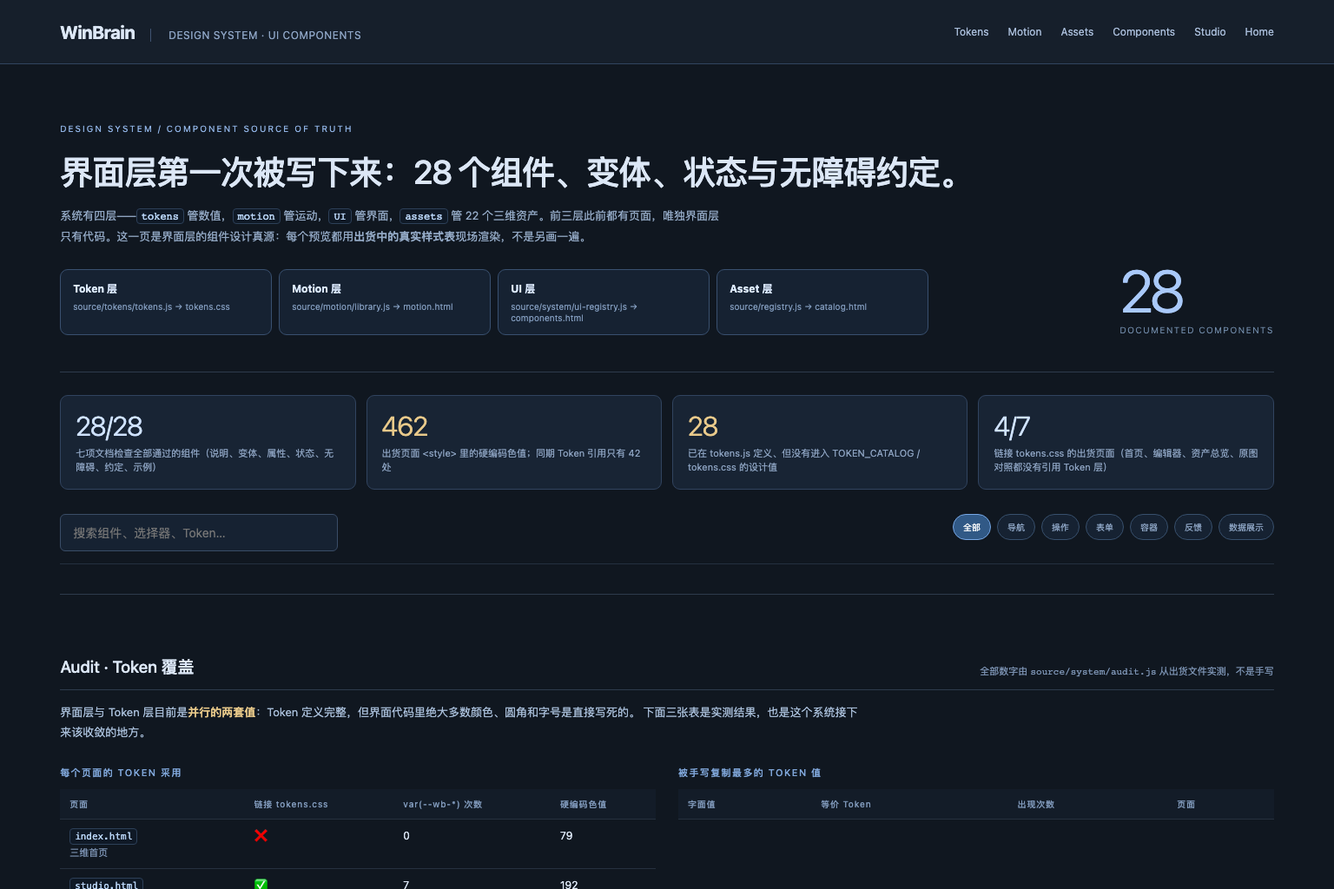
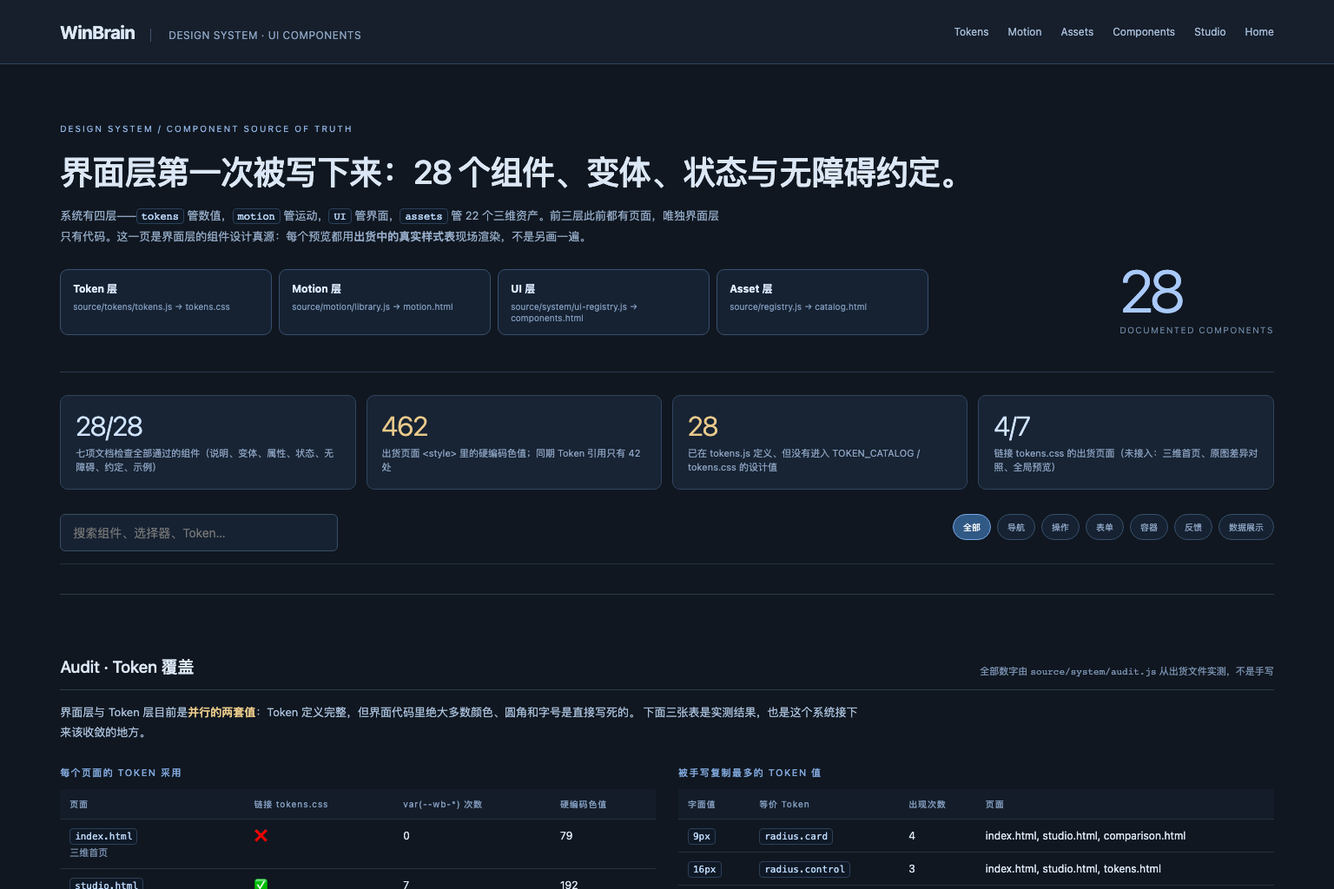
Answer the three review findings, and make the ratchet tell the truth
All three Codex findings were valid. The first one mattered most.

1. The ratchet overclaimed. `duplicatedLiterals` is populated only from the hex
   scan, so the label "hand-copied token literals" promised dimension coverage
   the audit did not have — and it reported zero while 11 border-radius literals
   equal to a radius token were sitting in the tree. audit.js now indexes the
   Radius group and records radius duplicates alongside the colours.

   The dead `len:` block it replaces was worse than unused: it resolved a value
   to a token by value alone, so `16px` would have been credited to `space.16` —
   a spacing decision owning a border-radius literal, the same mistake the
   namespace rule exists to prevent. Restricting the index to the Radius group
   fixes that. Deliberately not extended to every dimension: `padding: 16px`
   equals `space.16` without copying a spacing decision, and flagging those
   would drown the real ones.

   The 11 are not converted, and the reason is measured rather than assumed.
   They all reach the audit through source/shell.html, and index.html refuses
   the tokens.css <link>: its CSP is `style-src 'unsafe-inline'` with no
   `'self'`, so Chromium blocks the stylesheet and `var(--wb-color-accent)`
   resolves to an inherited `rgb(244, 245, 248)` instead of `#67ccff`. Seen in a
   browser, not inferred from the spec. Widening that CSP is a decision about
   the homepage's security posture, so the ratchet carries the debt at a pinned
[…]

diff --git a/components.html b/components.html
@@ -4390,7 +4390,7 @@ a:focus-visible,button:focus-visible,input:focus-visible{outline:2px solid var(-
   <div class="stat"><b>28/28</b><span>七项文档检查全部通过的组件（说明、变体、属性、状态、无障碍、约定、示例）</span></div>
   <div class="stat warn"><b>462</b><span>出货页面 &lt;style&gt; 里的硬编码色值；同期 Token 引用只有 42 处</span></div>
   <div class="stat warn"><b>28</b><span>已在 tokens.js 定义、但没有进入 TOKEN_CATALOG / tokens.css 的设计值</span></div>
-  <div class="stat"><b>4/7</b><span>链接 tokens.css 的出货页面（首页、编辑器、资产总览、原图对照都没有引用 Token 层）</span></div>
+  <div class="stat"><b>4/7</b><span>链接 tokens.css 的出货页面（未接入：三维首页、原图差异对照、全局预览）</span></div>
 </section>
 
 <section class="tools">
@@ -4409,7 +4409,7 @@ a:focus-visible,button:focus-visible,input:focus-visible{outline:2px solid var(-
   </p>
   <div class="ds-body" style="grid-template-columns:repeat(2,minmax(0,1fr))">
     <section class="ds-block"><h4>每个页面的 Token 采用</h4><table><thead><tr><th>页面</th><th>链接 tokens.css</th><th>var(--wb-*) 次数</th><th>硬编码色值</th></tr></thead><tbody><tr><td><code>index.html</code><br><span style="color:#7c93b3;font-size:11px">三维首页</span></td><td>❌</td><td>0</td><td>79</td></tr><tr><td><code>studio.html</code><br><span style="color:#7c93b3;font-size:11px">组件编辑器</span></td><td>✅</td><td>7</td><td>192</td></tr><tr><td><code>catalog.html</code><br><span style="color:#7c93b3;font-size:11px">资产总览</span></td><td>✅</td><td>7</td><td>30</td></tr><tr><td><code>tokens.html</code><br><span style="color:#7c93b3;font-size:11px">Token 审计</span></td><td>✅</td><td>11</td><td>47</td></tr><tr><td><code>motion.html</code><br><span style="color:#7c93b3;font-size:11px">Motion 库</span></td><td>✅</td><td>17</td><td>50</td></tr><tr><td><code>comparison.html</code><br><span style="color:#7c93b3;font-size:11px">原图差异对照</span></td><td>❌</td><td>0</td><td>29</td></tr><tr><td><code>global.html</code><br><span style="color:#7c93b3;font-size:11px">全局预览</span></td><td>❌</td><td>0</td><td>35</td></tr><tr><td><code>components.html</code><br><span style="color:#7c93b3;font-size:11px">组件预览（本页）</span></td><td>✅</td><td>16</td><td>82</td></tr></tbody></table></section>
-    <section class="ds-block"><h4>被手写复制最多的 Token 值</h4><table><thead><tr><th>字面值</th><th>等价 Token</th><th>出现次数</th><th>页面</th></tr></thead><tbody></tbody></table></section>
+    <section class="ds-block"><h4>被手写复制最多的 Token 值</h4><table><thead><tr><th>字面值</th><th>等价 Token</th><th>出现次数</th><th>页面</th></tr></thead><tbody><tr><td><code>9px</code></td><td><code>radius.card</code></td><td>4</td><td>index.html, studio.html, comparison.html</td></tr><tr><td><code>16px</code></td><td><code>radius.control</code></td><td>3</td><td>index.html, studio.html, tokens.html</td></tr><tr><td><code>20px</code></td><td><code>radius.dialog</code></td><td>2</td><td>index.html, studio.html</td></tr><tr><td><code>19px</code></td><td><code>radius.panel</code></td><td>2</td><td>index.html, studio.html</td></tr></tbody></table></section>
   </div>
   <section class="ds-block" style="margin-top:26px"><h4>圆角尺度：实际用了 20 种值，Token 只定义了 3 种</h4>
     <p style="font-size:12px;color:#8ba1bf">橙色是没有任何 Token 对应的孤值。<code>16px</code> 其实就是 tokens.js 里的 <code>radius.control</code>，只是没有导出。</p>
@@ -4540,19 +4540,19 @@ a:focus-visible,button:focus-visible,input:focus-visible{outline:2px solid var(-
 &lt;/button&gt;</pre></section>
   </div>
 </article>
-<article class="ds-component" id="c-control-button" data-search="control-button control button actions 首页视角工具里的小胶囊按钮，16px 圆角，带 aria-pressed 开关态。 .controls .controls p .control-buttons .control-buttons button .control-buttons button:hover .control-buttons button[aria-pressed=&quot;true&quot;] radius.control（未导出） #a7c3ea2c #14213460 #335da081 #a5c6ff80 #b5c9e1 16px" data-group="actions">
+<article class="ds-component" id="c-control-button" data-search="control-button control button actions 首页视角工具里的小胶囊按钮，16px 圆角，带 aria-pressed 开关态。 .controls .controls p .control-buttons .control-buttons button .control-buttons button:hover .control-buttons button[aria-pressed=&quot;true&quot;] radius.control #a7c3ea2c #14213460 #335da081 #a5c6ff80 #b5c9e1 16px" data-group="actions">
   <div class="ds-head">
     <span class="ds-kind">操作 / UI COMPONENT</span>
     <h3>Control Button<code>control-button</code></h3>
     <p class="ds-summary">首页视角工具里的小胶囊按钮，16px 圆角，带 aria-pressed 开关态。</p>
-    <div class="ds-meta"><span>source/shell.html</span><span>radius.control（未导出）</span><span class="gap">#a7c3ea2c</span><span class="gap">#14213460</span><span class="gap">#335da081</span><span class="gap">#a5c6ff80</span><span class="gap">#b5c9e1</span><span class="gap">16px</span></div>
+    <div class="ds-meta"><span>source/shell.html</span><span>radius.control</span><span class="gap">#a7c3ea2c</span><span class="gap">#14213460</span><span class="gap">#335da081</span><span class="gap">#a5c6ff80</span><span class="gap">#b5c9e1</span><span class="gap">16px</span></div>
   </div>
   <div class="ds-frame ds-frame--scene"><div class="ds-stage ds-stage--home ds-pv-control-button"><div class="viewport"><main class="scene" aria-label="Control Button 预览"><div class="controls is-open" style="opacity:1;visibility:visible;transform:none"><p>拖动旋转 · 滚轮缩放<br>点击物体，探索每一层</p><div class="control-buttons"><button>初始视角</button><button aria-pressed="false">自动旋转</button><button aria-pressed="true">模型线框</button><button aria-pressed="false">暂停光流</button></div></div></main></div></div></div>
   <p class="ds-stage-note">舞台：<b>首页场景</b> · 在 1536 × 1024 的 .scene 内按原坐标绝对定位渲染，预览按比例缩放。</p>
   <div class="ds-body">
     <section class="ds-block"><h4>Description</h4><p>一组可切换的视图开关（自动旋转、模型线框、暂停光流）。这是全站唯一把“按下”状态写进 aria-pressed 的控件，因此样式规则也直接挂在属性选择器上——状态和语义是同一条规则，不会漂移。</p></section>
     <section class="ds-block"><h4>Variants</h4><table><thead><tr><th>Variant</th><th>Use When</th><th>Selector</th></tr></thead><tbody><tr><td>Toggle</td><td>有开/关两态的视图开关，带 aria-pressed</td><td><code>.control-buttons button[aria-pressed]</code></td></tr><tr><td>Action</td><td>一次性动作（初始视角、进入编辑器），无 aria-pressed</td><td><code>.control-buttons button</code></td></tr></tbody></table></section>
-    <section class="ds-block"><h4>Props / Properties</h4><table><thead><tr><th>Property</th><th>Type</th><th>Default</th><th>Description</th></tr></thead><tbody><tr><td><code>padding</code></td><td>length</td><td><code>7px 11px</code></td><td>小尺寸胶囊。</td></tr><tr><td><code>border-radius</code></td><td>length</td><td><code>16px</code></td><td>对应 tokens.js 里的 radius.control，但该 Token 未导出到 tokens.css。</td></tr><tr><td><code>border</code></td><td>border</td><td><code>1px solid #a7c3ea2c</code></td><td>约 17% 透明度的冷色描边。</td></tr><tr><td><code>background</code></td><td>color</td><td><code>#14213460</code></td><td>约 38% 透明度的深蓝，浮在三维场景上方。</td></tr><tr><td><code>aria-pressed</code></td><td>boolean</td><td><code>false</code></td><td>开/关状态，驱动选中样式。同时存在一个 hover 规则，两条规则共用同一样式块。</td></tr></tbody></table></section>
+    <section class="ds-block"><h4>Props / Properties</h4><table><thead><tr><th>Property</th><th>Type</th><th>Default</th><th>Description</th></tr></thead><tbody><tr><td><code>padding</code></td><td>length</td><td><code>7px 11px</code></td><td>小尺寸胶囊。</td></tr><tr><td><code>border-radius</code></td><td>length</td><td><code>16px</code></td><td>对应 tokens.js 里的 radius.control，已导出为 --wb-radius-control。</td></tr><tr><td><code>border</code></td><td>border</td><td><code>1px solid #a7c3ea2c</code></td><td>约 17% 透明度的冷色描边。</td></tr><tr><td><code>background</code></td><td>color</td><td><code>#14213460</code></td><td>约 38% 透明度的深蓝，浮在三维场景上方。</td></tr><tr><td><code>aria-pressed</code></td><td>boolean</td><td><code>false</code></td><td>开/关状态，驱动选中样式。同时存在一个 hover 规则，两条规则共用同一样式块。</td></tr></tbody></table></section>
     <section class="ds-block"><h4>States</h4><table><thead><tr><th>State</th><th>Visual</th><th>Behavior</th></tr></thead><tbody><tr><td>Default</td><td>半透明深蓝底 + 17% 冷色描边，文字 11px #b5c9e1</td><td>点击切换</td></tr><tr><td>Hover</td><td>与按下态相同：#335da081 底、#fff 字、#a5c6ff80 边</td><td>过渡 0.2s</td></tr><tr><td>Pressed (aria-pressed=true)</td><td>同 Hover</td><td>保持到再次点击</td></tr><tr><td>Hidden (父级 .controls)</td><td>父级默认 opacity:0 / visibility:hidden / translateY(6px)</td><td>Explore 展开或父级 :focus-within 时恢复</td></tr></tbody></table></section>
     <section class="ds-block"><h4>Accessibility</h4><div class="ds-a11y">
       <div><b>ROLE</b><p>button，切换型带 aria-pressed</p></div>
@@ -5181,7 +5181,7 @@ a:focus-visible,button:focus-visible,input:focus-visible{outline:2px solid var(-
   <div class="ds-body">
     <section class="ds-block"><h4>Description</h4><p>一组互斥的分类筛选钮。和首页 control-button 是同一形态（16px 圆角胶囊）但不同语义：这里用 .active class 表达唯一选中，而首页用 aria-pressed。两处圆角值相同，说明 16px 事实上是这个系统的“胶囊档”。</p></section>
     <section class="ds-block"><h4>Variants</h4><table><thead><tr><th>Variant</th><th>Use When</th><th>Selector</th></tr></thead><tbody><tr><td>Default</td><td>未选中的分类</td><td><code>.filters button</code></td></tr><tr><td>Active</td><td>唯一选中的分类；再点“全部”可复位</td><td><code>.filters button.active</code></td></tr></tbody></table></section>
-    <section class="ds-block"><h4>Props / Properties</h4><table><thead><tr><th>Property</th><th>Type</th><th>Default</th><th>Description</th></tr></thead><tbody><tr><td><code>border-radius</code></td><td>length</td><td><code>16px</code></td><td>与首页 .control-buttons button 相同，等于未导出的 radius.control。</td></tr><tr><td><code>padding</code></td><td>length</td><td><code>7px 11px</code></td><td>与首页控制按钮完全一致。</td></tr><tr><td><code>font-size</code></td><td>length</td><td><code>10px</code></td><td>比首页的 11px 小一档。</td></tr></tbody></table></section>
+    <section class="ds-block"><h4>Props / Properties</h4><table><thead><tr><th>Property</th><th>Type</th><th>Default</th><th>Description</th></tr></thead><tbody><tr><td><code>border-radius</code></td><td>length</td><td><code>16px</code></td><td>与首页 .control-buttons button 相同，等于 radius.control。</td></tr><tr><td><code>padding</code></td><td>length</td><td><code>7px 11px</code></td><td>与首页控制按钮完全一致。</td></tr><tr><td><code>font-size</code></td><td>length</td><td><code>10px</code></td><td>比首页的 11px 小一档。</td></tr></tbody></table></section>
     <section class="ds-block"><h4>States</h4><table><thead><tr><th>State</th><th>Visual</th><th>Behavior</th></tr></thead><tbody><tr><td>Default</td><td>1px #38506d 边，底 #162232，文字 #91a9c9</td><td>点击切换分类</td></tr><tr><td>Active</td><td>底 #315986，文字 white，边 #77a8e6</td><td>与搜索框叠加过滤</td></tr><tr><td>Focus</td><td>outline 2px var(--wb-color-accent)，offset 3px</td><td>键盘可达</td></tr></tbody></table></section>
     <section class="ds-block"><h4>Accessibility</h4><div class="ds-a11y">
       <div><b>ROLE</b><p>容器 role=&quot;group&quot; + aria-label=&quot;Token 分类&quot;</p></div>

diff --git a/preview/control-button.html b/preview/control-button.html
@@ -152,7 +152,7 @@ body{padding:0}
   <div class="ds-body">
     <section class="ds-block"><h4>Description</h4><p>一组可切换的视图开关（自动旋转、模型线框、暂停光流）。这是全站唯一把“按下”状态写进 aria-pressed 的控件，因此样式规则也直接挂在属性选择器上——状态和语义是同一条规则，不会漂移。</p></section>
     <section class="ds-block"><h4>Variants</h4><table><thead><tr><th>Variant</th><th>Use When</th><th>Selector</th></tr></thead><tbody><tr><td>Toggle</td><td>有开/关两态的视图开关，带 aria-pressed</td><td><code>.control-buttons button[aria-pressed]</code></td></tr><tr><td>Action</td><td>一次性动作（初始视角、进入编辑器），无 aria-pressed</td><td><code>.control-buttons button</code></td></tr></tbody></table></section>
-    <section class="ds-block"><h4>Props / Properties</h4><table><thead><tr><th>Property</th><th>Type</th><th>Default</th><th>Description</th></tr></thead><tbody><tr><td><code>padding</code></td><td>length</td><td><code>7px 11px</code></td><td>小尺寸胶囊。</td></tr><tr><td><code>border-radius</code></td><td>length</td><td><code>16px</code></td><td>对应 tokens.js 里的 radius.control，但该 Token 未导出到 tokens.css。</td></tr><tr><td><code>border</code></td><td>border</td><td><code>1px solid #a7c3ea2c</code></td><td>约 17% 透明度的冷色描边。</td></tr><tr><td><code>background</code></td><td>color</td><td><code>#14213460</code></td><td>约 38% 透明度的深蓝，浮在三维场景上方。</td></tr><tr><td><code>aria-pressed</code></td><td>boolean</td><td><code>false</code></td><td>开/关状态，驱动选中样式。同时存在一个 hover 规则，两条规则共用同一样式块。</td></tr></tbody></table></section>
+    <section class="ds-block"><h4>Props / Properties</h4><table><thead><tr><th>Property</th><th>Type</th><th>Default</th><th>Description</th></tr></thead><tbody><tr><td><code>padding</code></td><td>length</td><td><code>7px 11px</code></td><td>小尺寸胶囊。</td></tr><tr><td><code>border-radius</code></td><td>length</td><td><code>16px</code></td><td>对应 tokens.js 里的 radius.control，已导出为 --wb-radius-control。</td></tr><tr><td><code>border</code></td><td>border</td><td><code>1px solid #a7c3ea2c</code></td><td>约 17% 透明度的冷色描边。</td></tr><tr><td><code>background</code></td><td>color</td><td><code>#14213460</code></td><td>约 38% 透明度的深蓝，浮在三维场景上方。</td></tr><tr><td><code>aria-pressed</code></td><td>boolean</td><td><code>false</code></td><td>开/关状态，驱动选中样式。同时存在一个 hover 规则，两条规则共用同一样式块。</td></tr></tbody></table></section>
     <section class="ds-block"><h4>States</h4><table><thead><tr><th>State</th><th>Visual</th><th>Behavior</th></tr></thead><tbody><tr><td>Default</td><td>半透明深蓝底 + 17% 冷色描边，文字 11px #b5c9e1</td><td>点击切换</td></tr><tr><td>Hover</td><td>与按下态相同：#335da081 底、#fff 字、#a5c6ff80 边</td><td>过渡 0.2s</td></tr><tr><td>Pressed (aria-pressed=true)</td><td>同 Hover</td><td>保持到再次点击</td></tr><tr><td>Hidden (父级 .controls)</td><td>父级默认 opacity:0 / visibility:hidden / translateY(6px)</td><td>Explore 展开或父级 :focus-within 时恢复</td></tr></tbody></table></section>
     <section class="ds-block"><h4>Accessibility</h4><div class="ds-a11y">
       <div><b>ROLE</b><p>button，切换型带 aria-pressed</p></div>

diff --git a/preview/filter-chip.html b/preview/filter-chip.html
@@ -148,7 +148,7 @@ body{padding:0}
   <div class="ds-body">
     <section class="ds-block"><h4>Description</h4><p>一组互斥的分类筛选钮。和首页 control-button 是同一形态（16px 圆角胶囊）但不同语义：这里用 .active class 表达唯一选中，而首页用 aria-pressed。两处圆角值相同，说明 16px 事实上是这个系统的“胶囊档”。</p></section>
     <section class="ds-block"><h4>Variants</h4><table><thead><tr><th>Variant</th><th>Use When</th><th>Selector</th></tr></thead><tbody><tr><td>Default</td><td>未选中的分类</td><td><code>.filters button</code></td></tr><tr><td>Active</td><td>唯一选中的分类；再点“全部”可复位</td><td><code>.filters button.active</code></td></tr></tbody></table></section>
-    <section class="ds-block"><h4>Props / Properties</h4><table><thead><tr><th>Property</th><th>Type</th><th>Default</th><th>Description</th></tr></thead><tbody><tr><td><code>border-radius</code></td><td>length</td><td><code>16px</code></td><td>与首页 .control-buttons button 相同，等于未导出的 radius.control。</td></tr><tr><td><code>padding</code></td><td>length</td><td><code>7px 11px</code></td><td>与首页控制按钮完全一致。</td></tr><tr><td><code>font-size</code></td><td>length</td><td><code>10px</code></td><td>比首页的 11px 小一档。</td></tr></tbody></table></section>
+    <section class="ds-block"><h4>Props / Properties</h4><table><thead><tr><th>Property</th><th>Type</th><th>Default</th><th>Description</th></tr></thead><tbody><tr><td><code>border-radius</code></td><td>length</td><td><code>16px</code></td><td>与首页 .control-buttons button 相同，等于 radius.control。</td></tr><tr><td><code>padding</code></td><td>length</td><td><code>7px 11px</code></td><td>与首页控制按钮完全一致。</td></tr><tr><td><code>font-size</code></td><td>length</td><td><code>10px</code></td><td>比首页的 11px 小一档。</td></tr></tbody></table></section>
     <section class="ds-block"><h4>States</h4><table><thead><tr><th>State</th><th>Visual</th><th>Behavior</th></tr></thead><tbody><tr><td>Default</td><td>1px #38506d 边，底 #162232，文字 #91a9c9</td><td>点击切换分类</td></tr><tr><td>Active</td><td>底 #315986，文字 white，边 #77a8e6</td><td>与搜索框叠加过滤</td></tr><tr><td>Focus</td><td>outline 2px var(--wb-color-accent)，offset 3px</td><td>键盘可达</td></tr></tbody></table></section>
     <section class="ds-block"><h4>Accessibility</h4><div class="ds-a11y">
       <div><b>ROLE</b><p>容器 role=&quot;group&quot; + aria-label=&quot;Token 分类&quot;</p></div>

diff --git a/source/system/audit.js b/source/system/audit.js
@@ -95,13 +95,25 @@ function tokenValueIndex() {
       index.get(raw).push(token.id);
     }
   }
-  for (const value of ["9px", "19px", "20px", "16px"]) {
-    const owner = TOKEN_CATALOG.find((t) => String(t.value).toLowerCase() === value);
-    if (owner) {
-      const key = `len:${value}`;
-      if (!index.has(key)) index.set(key, []);
-      index.get(key).push(owner.id);
-    }
+  return index;
+}
+
+/**
+ * Radius values, so a hand-written `border-radius: 16px` counts as a duplicate too.
+ *
+ * Restricting this to the Radius group matters. A value-only lookup credits `16px` to
+ * whichever token is listed first, and that is `space.16` — a spacing decision owning a
+ * border-radius literal. Same class of mistake the namespace rule above exists to stop.
+ *
+ * Deliberately not extended to every dimension: `padding: 16px` equals `space.16` but is
+ * not a copy of a spacing decision, and flagging those would drown the real ones.
+ */
+function radiusValueIndex() {
+  const index = new Map();
+  for (const token of TOKEN_CATALOG) {
+    if (token.group !== "Radius") continue;
+    const raw = String(token.value).trim().toLowerCase();
+    if (raw) index.set(raw, token.id);
   }
   return index;
 }
@@ -125,6 +137,7 @@ export async function auditDesignSystem(root) {
     .map((leaf) => ({ id: leaf.id, value: Array.isArray(leaf.value) ? leaf.value.join(", ") : String(leaf.value) }));
 
   const valueIndex = tokenValueIndex();
+  const radiusIndex = radiusValueIndex();
   const surfaces = [];
   const radiusUse = new Map();
   const duplicates = new Map();
@@ -147,6 +160,15 @@ export async function auditDesignSystem(root) {
         const value = match[1].trim();
         if (!radiusUse.has(value)) radiusUse.set(value, []);
         radiusUse.get(value).push(surface.id);
+        // The same ratchet as the colours, one property over: a radius literal that equals
+        // a radius token is a copy of that decision, whether or not anyone noticed.
+        const owner = radiusIndex.get(value.toLowerCase());
+        if (!owner) continue;
+        const key = `${value.toLowerCase()}|${owner}`;
+        if (!duplicates.has(key)) duplicates.set(key, { literal: value.toLowerCase(), token: owner, pages: new Set(), count: 0 });
+        const entry = duplicates.get(key);
+        entry.pages.add(surface.id);
+        entry.count += 1;
       }
       for (const hex of hexes) {
         const owners = valueIndex.get(hex.toLowerCase());

diff --git a/source/system/ui-registry.js b/source/system/ui-registry.js
@@ -221,7 +221,7 @@ export const UI_SYSTEM = {
       ],
       props: [
         { property: "padding", type: "length", default: "7px 11px", description: "小尺寸胶囊。" },
-        { property: "border-radius", type: "length", default: "16px", description: "对应 tokens.js 里的 radius.control，但该 Token 未导出到 tokens.css。" },
+        { property: "border-radius", type: "length", default: "16px", description: "对应 tokens.js 里的 radius.control，已导出为 --wb-radius-control。" },
         { property: "border", type: "border", default: "1px solid #a7c3ea2c", description: "约 17% 透明度的冷色描边。" },
         { property: "background", type: "color", default: "#14213460", description: "约 38% 透明度的深蓝，浮在三维场景上方。" },
         { property: "aria-pressed", type: "boolean", default: "false", description: "开/关状态，驱动选中样式。同时存在一个 hover 规则，两条规则共用同一样式块。" },
@@ -239,7 +239,7 @@ export const UI_SYSTEM = {
       },
       dos: ["开/关类开关必须带 aria-pressed 并让样式依赖该属性", "整组开关用 flex-wrap 兜住窄屏"],
       donts: ["不要用 .active class 表达开关状态（同一页面已有两套选中约定）", "不要把 .controls 的隐藏做成 display:none，否则键盘无法唤起"],
-      tokens: ["radius.control（未导出）"],
+      tokens: ["radius.control"],
       hardcoded: ["#a7c3ea2c", "#14213460", "#335da081", "#a5c6ff80", "#b5c9e1", "16px"],
       example: `<div class="control-buttons">
   <button id="rotate" aria-pressed="false">自动旋转</button>
@@ -1184,7 +1184,7 @@ export const UI_SYSTEM = {
         { name: "Active", useWhen: "唯一选中的分类；再点“全部”可复位", selector: ".filters button.active" },
       ],
       props: [
-        { property: "border-radius", type: "length", default: "16px", description: "与首页 .control-buttons button 相同，等于未导出的 radius.control。" },
+        { property: "border-radius", type: "length", default: "16px", description: "与首页 .control-buttons button 相同，等于 radius.control。" },
         { property: "padding", type: "length", default: "7px 11px", description: "与首页控制按钮完全一致。" },
         { property: "font-size", type: "length", default: "10px", description: "比首页的 11px 小一档。" },
       ],

diff --git a/DESIGN.md b/DESIGN.md
@@ -132,7 +132,13 @@ Token 分成八组，其中五组只服务 3D：
 
 ### 5.2 手写复制的 Token 值：已清零
 
-上一版这里列着 8 处逐字节复制，分布在 `catalog.html`、`motion.html` 与 `studio.html`。现在全部改为 `var()` 引用，`duplicatedLiterals` 实测为空。
+上一版这里列着 8 处逐字节复制，分布在 `catalog.html`、`motion.html` 与 `studio.html`。现在全部改为 `var()` 引用，**颜色字面值复制实测为 0**。
+
+同一把尺子量到圆角时还剩 **11 处**：`9px`（`radius.card`）4 处、`16px`（`radius.control`）3 处、`20px`（`radius.dialog`）2 处、`19px`（`radius.panel`）2 处。这不是没发现，是**暂时做不了**，而且原因已实测确认：
+
+> `index.html` 拒绝加载 `tokens.css`。它的 CSP 是 `style-src 'unsafe-inline'`，没有 `'self'`，Chromium 直接拦掉同源样式表——控制台原话：`Loading the stylesheet ... violates the following Content Security Policy directive: "style-src 'unsafe-inline'"`。实测时 `var(--wb-color-accent)` 解析成继承值 `rgb(244, 245, 248)`，不是 `#67ccff`。
+
+这 11 处全部经由 `source/shell.html` 进入审计。把 `index.html` 接进 Token 层，等于要放宽这张页面的 CSP——那是关于首页安全姿态的决定，不该由一次 Token 迁移替它回答。所以棘轮把这笔债记在明面上（§5.6），而不是让它继续隐形。
 
 改动是**可证明无视觉变化**的，不是「看起来一样」：
 
@@ -222,16 +228,19 @@ var(--wb-radius-card) ×5   100% ×2   50% ×14   29px ×2   25px ×2   22px ×1
 
 上面的数字都会被 `npm run verify:system` 核对，但那只能证明**文档没腐烂**，并不能阻止数字本身变大。所以 `source/system/check-docs.mjs` 末尾有两条棘轮：
 
-| 棘轮 | 当前 / 上限 |
-|---|---|
-| 手写复制的 Token 字面值（应被 `var()` 取代） | 0 / 0 |
-| 没有出口的 UI 设计值 | 0 / 0 |
+| 棘轮 | 当前 / 上限 | 为什么不是 0 |
+|---|---|---|
+| 手写复制的颜色字面值（应被 `var()` 取代） | 0 / 0 | — |
+| 手写复制的圆角字面值 | 11 / 11 | 全部要经 `index.html`，而它的 CSP 挡住 `tokens.css`（§5.2） |
+| 没有出口的 UI 设计值 | 0 / 0 | — |
+
+圆角那一行**钉死在 11**，且单位是出现次数而不是「有几种不同的值」——按种类计数的话，同一个值被复制任意多次都不会触发，那就不叫棘轮了。
 
 失败信息会直接说明怎么处理：新值要么改用 `var()`、要么补 `TOKEN_CATALOG` 出口，**要么把这个上限连同理由一起调高**。调高上限是允许的，但必须写理由——否则棘轮就变成了装饰。
 
 ### 5.7 优先级行动
 
-1. **`index.html` 还没有链接 `tokens.css`。** 单独一张页面就有 79 处硬编码色值。它和 `comparison.html`、`global.html` 是剩余未接入的三张。
+1. **决定 `index.html` 的 CSP 要不要放宽。** 这是剩下所有 Token 接入工作的前置条件，也是唯一需要人拍板的一条：它的 `style-src` 只允许内联样式，`tokens.css` 进不去（实测见 §5.2）。放宽，11 处圆角复制和 79 处硬编码色值才有下一步；不放宽，这张页面就应当被明确列为「不进 Token 体系」的例外，而不是继续挂着待办。`comparison.html`、`global.html` 是内部工具页，可一并归入例外。
 2. **收敛圆角尺度。** 20 种降到 5–6 种（如 3/5/9/16/20/50%），先决定 `10px` 归到 `9px` 还是新增 `radius.card-elevated`。纯观感工作，需要看图。
 3. **统一小标签命名**为一个组件（见 `preview/eyebrow.html`），四套写法合并。
 4. **统一页面头部命名**，三处变一处。
